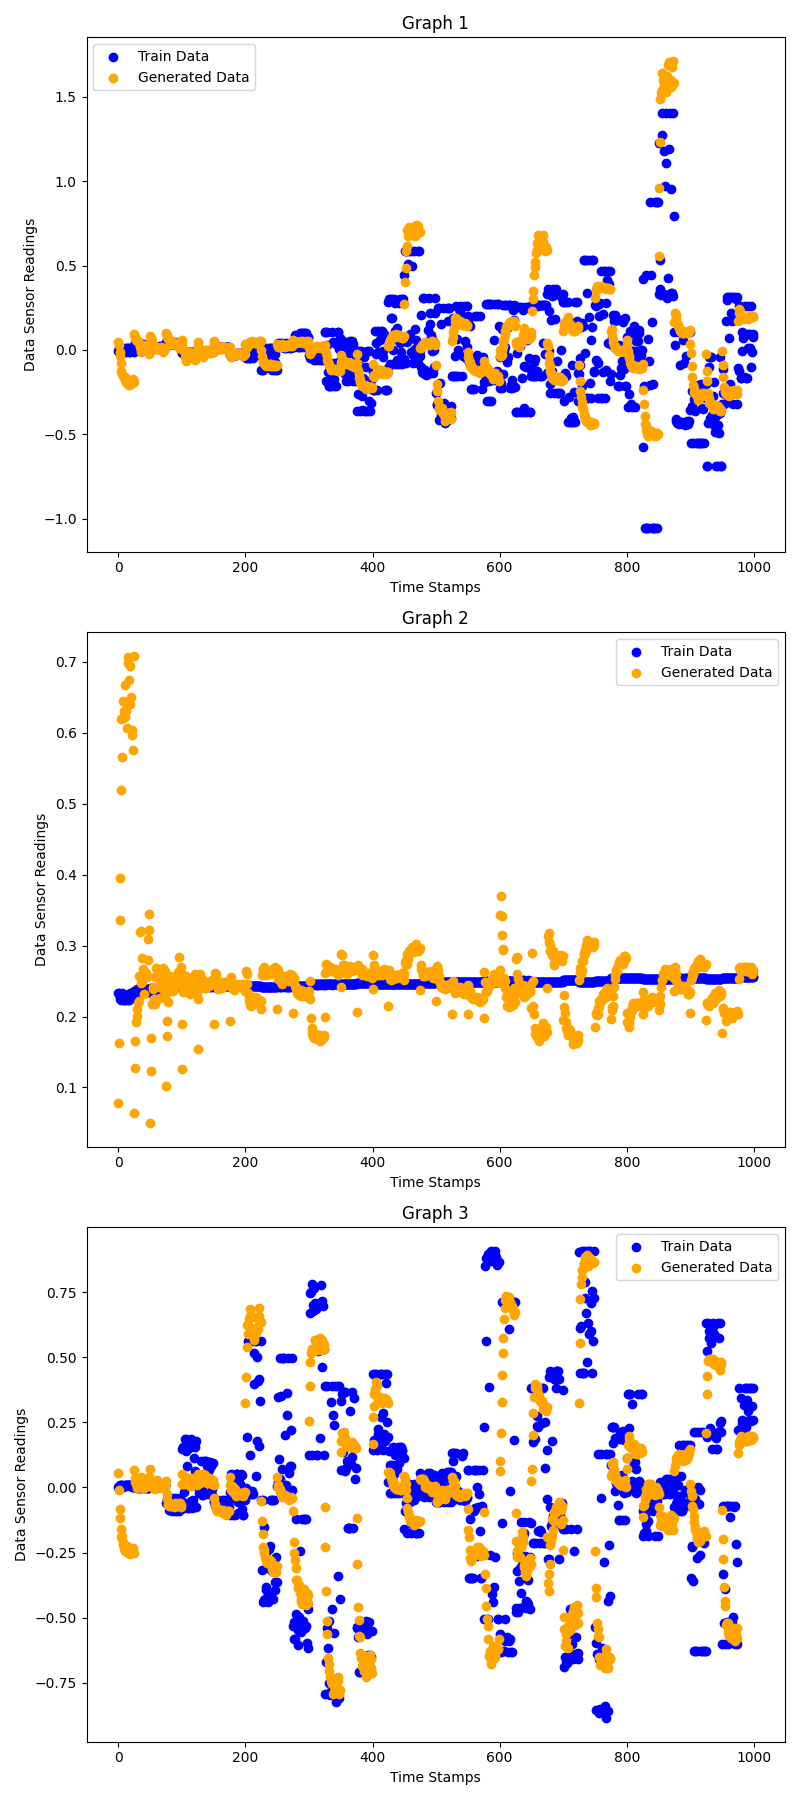
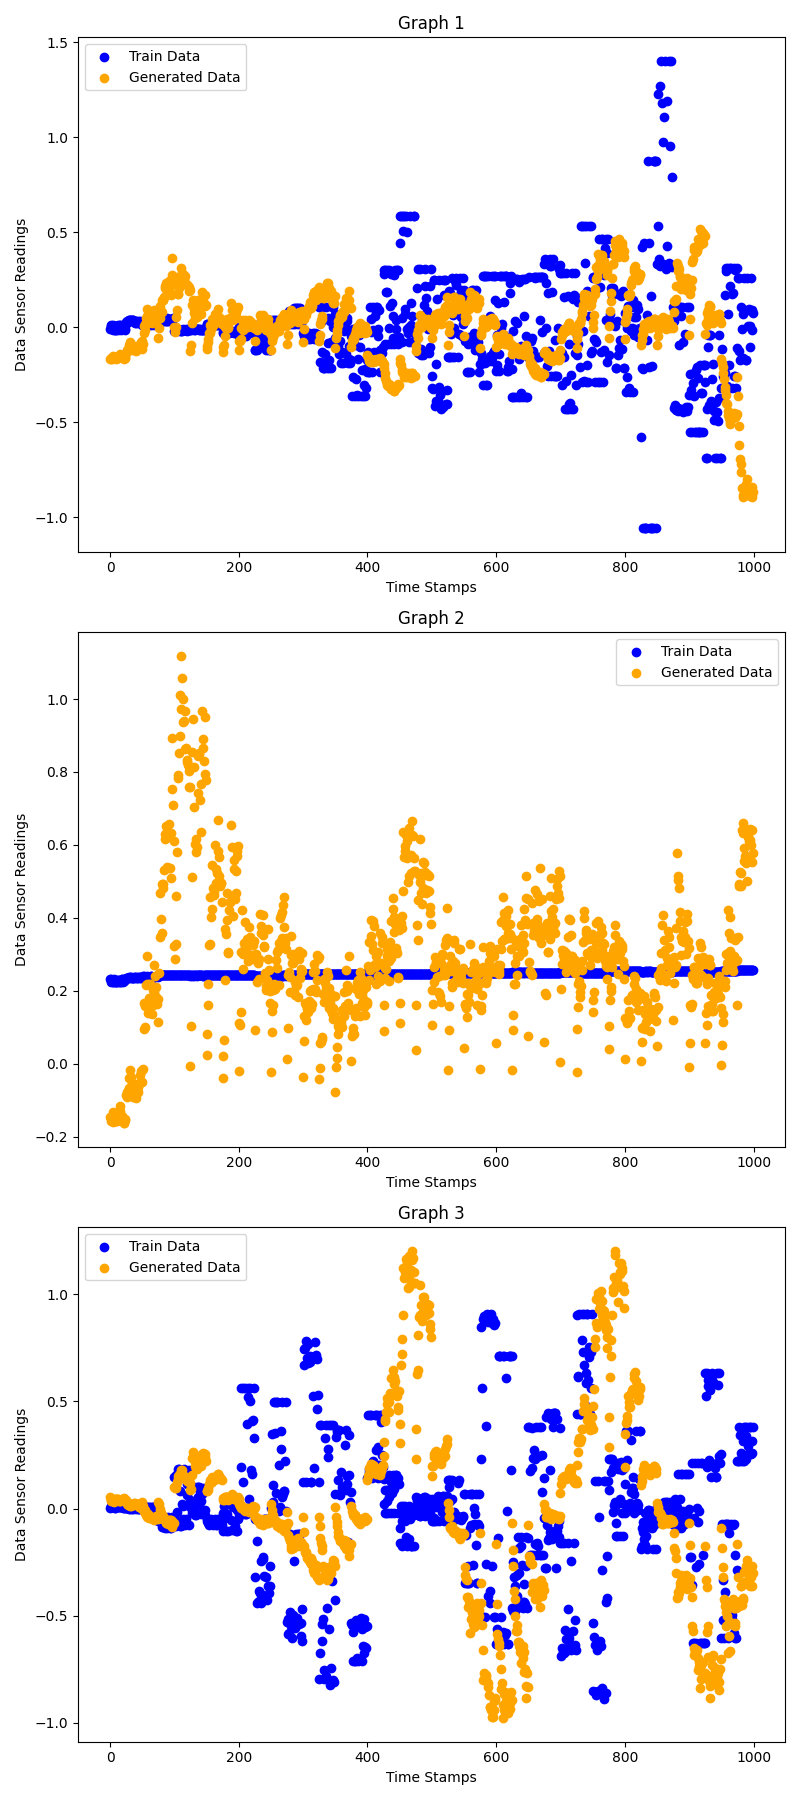
state discriminator

diff --git a/ensemble_gan.py b/ensemble_gan.py
@@ -21,7 +21,7 @@ import torch
 from torch import nn
 
 from data import (extract_3multiple)
-from GAN_models import (Multi_Discriminator, Multi_Generator)
+from GAN_models import (Multi_Discriminator, Multi_Generator, UAV_State_Discriminator)
 from utility import (clear_line, clear_patch)
 import pandas as pd
 from scipy import stats
@@ -29,7 +29,7 @@ import pdb
 
 
 def main(argv=[]):
-    num_epochs: int = 400
+    num_epochs: int = 40
     minibatch_size: int = 25
     d_learning_rate: float = 0.0001
     g_learning_rate: float = 0.0001
@@ -54,11 +54,22 @@ def main(argv=[]):
     train_data = torch.from_numpy(data).float()
     M = train_data.shape[1]
     
+    num_states = 3  # Take-off, hovering, landing
+    # Calculate number of samples for each state based on total number of data points
+    num_samples_takeoff = int(N * 0.1)
+    num_samples_normal = int(N * 0.8)
+    num_samples_landing = int(N * 0.1)
+    
+    # Create a list of state labels based on the calculated counts
+    state_labels = [0] * num_samples_takeoff + [1] * num_samples_normal + [2] * num_samples_landing 
+    
     D = Multi_Discriminator(data_dim, d_hidden_size).to(device)
     G = Multi_Generator(z_dim, g_hidden_size, data_dim).to(device)
+    S = UAV_State_Discriminator(data_dim, d_hidden_size, num_states).to(device)
     
     d_optimizer = torch.optim.Adam(D.parameters(), lr=d_learning_rate, betas=(0.5, 0.999))
     g_optimizer = torch.optim.Adam(G.parameters(), lr=g_learning_rate, betas=(0.5, 0.999))
+    state_discriminator_optim = torch.optim.Adam(S.parameters(), lr=d_learning_rate, betas=(0.5, 0.999))
     
     K = minibatch_size # window height (by data_dim) # has to be equal to batch size for model
     window_data = []
@@ -67,19 +78,45 @@ def main(argv=[]):
         window = train_data[i:i+K]
         window_data.append(window)
     
+    num_windows_takeoff = int(len(window_data) * 0.1)
+    num_windows_normal = int(len(window_data) * 0.8)
+    num_windows_landing = int(len(window_data) * 0.1)
+    
+    window_data_takeoff = window_data[:num_windows_takeoff]
+    window_data_normal = window_data[num_windows_takeoff:num_windows_takeoff + num_windows_normal]
+    window_data_landing = window_data[-num_windows_landing:]
+
+    state_labels_takeoff = [0] * num_windows_takeoff
+    state_labels_normal = [1] * num_windows_normal
+    state_labels_landing = [2] * num_windows_landing
+
+    window_data_categories = window_data_takeoff + window_data_normal + window_data_landing
+    state_labels_categories = state_labels_takeoff + state_labels_normal + state_labels_landing
+    
     loss_function = nn.SmoothL1Loss()
     generated_samples_all_windows = []
     #generated_samples_all_windows = np.zeros_like(train_data)
     
+    lambda_state = 0.1  # Adjust this value based on experimentation
+    
     # Training
-    for window in window_data:
+    for window, state_label in zip(window_data_categories, state_labels_categories):
         window_loader = torch.utils.data.DataLoader(window, batch_size=minibatch_size, shuffle=False)
         for epochs in range(1, num_epochs + 1):
             for n, samples in enumerate(window_loader):
                 if isinstance(samples, tuple):
                     real_samples, _ = samples
                 else:
-                    real_samples = samples                
+                    real_samples = samples     
+                               
+                # Train State Discriminator:
+                S.zero_grad()
+                output_state = S(real_samples.view(-1, data_dim))
+                state_labels_batch = torch.tensor([[state_label]] * minibatch_size)  # shape (minibatch_size, 1)  
+
+                loss_state = loss_function(output_state, state_labels_batch)
+                loss_state.backward()
+                state_discriminator_optim.step()
                 
                 # Data for training the discriminator
                 real_samples_labels = torch.ones((minibatch_size, 1))
@@ -102,8 +139,12 @@ def main(argv=[]):
                 latent_space_samples = torch.randn((minibatch_size, z_dim))
                 G.zero_grad()
                 generated_samples = G(latent_space_samples)
+                #generated_samples = G(torch.cat((latent_space_samples, state_label), dim=1)) #can customize G to generate based on current state
                 output_discriminator_generated = D(generated_samples)
-                loss_generator = loss_function(output_discriminator_generated[0], real_samples_labels)
+                # loss_generator = loss_function(output_discriminator_generated[0], real_samples_labels) #old
+                # imporved training: use state discriminator's output to provide feedback to the generator 
+                loss_state_feedback = loss_function(output_discriminator_generated[0], state_labels_batch)
+                loss_generator = loss_function(output_discriminator_generated[0], real_samples_labels) + lambda_state * loss_state_feedback
                 loss_generator.backward()
                 g_optimizer.step()
 
@@ -112,9 +153,11 @@ def main(argv=[]):
                 #print(f"Epoch: {epoch} Loss D.: {loss_discriminator}")
                 #print(f"Epoch: {epoch} Loss G.: {loss_generator}")
                 print(
-                        f'iteration: {epochs} '
-                        f'generator_loss: {loss_generator} '
-                        f'discriminator_loss: {loss_discriminator}')                   
+                    f'iteration: {epochs} '
+                    f'state_loss: {loss_state} '
+                    f'generator_loss: {loss_generator} '
+                    f'discriminator_loss: {loss_discriminator}')
+                
         
         z = torch.randn(K, z_dim)
         generated_samples_window = G(z).detach().cpu().numpy()
@@ -140,6 +183,25 @@ def main(argv=[]):
     # Show the figure
     plt.savefig("ensemble_gan_plots/all_sensors.png")
     plt.show()
+    
+    
+    
+    # Evaluating Generated Data:
+    # This G should be just on last window data, so like landing data. 
+    num_fake_samples = 100
+    z = torch.randn(num_fake_samples, z_dim)
+    generated_samples = G(z)
+
+    # Pass the generated samples through the state discriminator
+    output_state_generated = S(generated_samples.view(-1, data_dim))
+
+    # Calculate the average probabilities for each state
+    average_probs = output_state_generated.mean(dim=0)
+
+    print("Average probabilities for each state:")
+    print("Take-off:", average_probs[0].item())
+    print("Normal flight:", average_probs[1].item())
+    print("Landing:", average_probs[2].item())
     
     return
 

diff --git a/GAN_models/discriminator.py b/GAN_models/discriminator.py
@@ -67,6 +67,19 @@ class Multi_Discriminator(nn.Module):
         out = self.sigmoid(out)
         
         return out, feat
+    
+class UAV_State_Discriminator(nn.Module):
+    def __init__(self, input_dim, hidden_size, num_states):
+        super(UAV_State_Discriminator, self).__init__()
+        self.model = nn.Sequential(
+            nn.Linear(input_dim, hidden_size),
+            nn.ReLU(),
+            nn.Linear(hidden_size, num_states),
+            nn.Softmax(dim=1)  # Softmax activation for state probabilities
+        )
+    
+    def forward(self, x):
+        return self.model(x)
 
 
 # class Discriminator(nn.Module):

diff --git a/GAN_models/__init__.py b/GAN_models/__init__.py
@@ -1,4 +1,4 @@
-from .discriminator import (Discriminator, Multi_Discriminator)
+from .discriminator import (Discriminator, Multi_Discriminator, UAV_State_Discriminator)
 from .generator import (Generator, Multi_Generator)
 
 from .autoencoder import (BasicAutoencoder)
